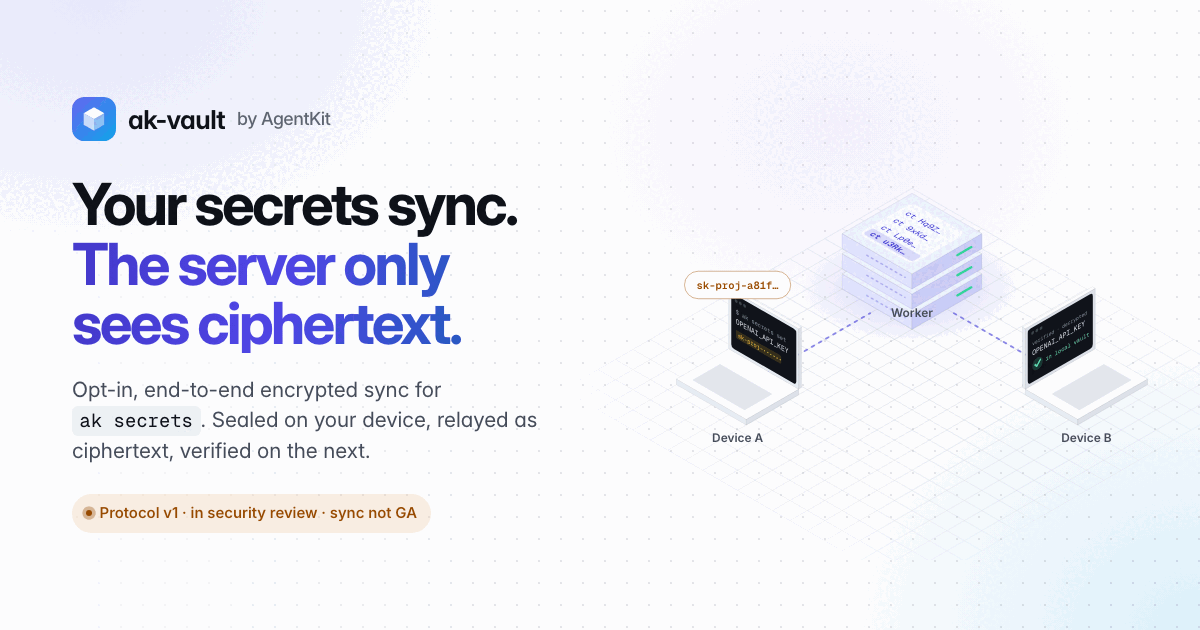
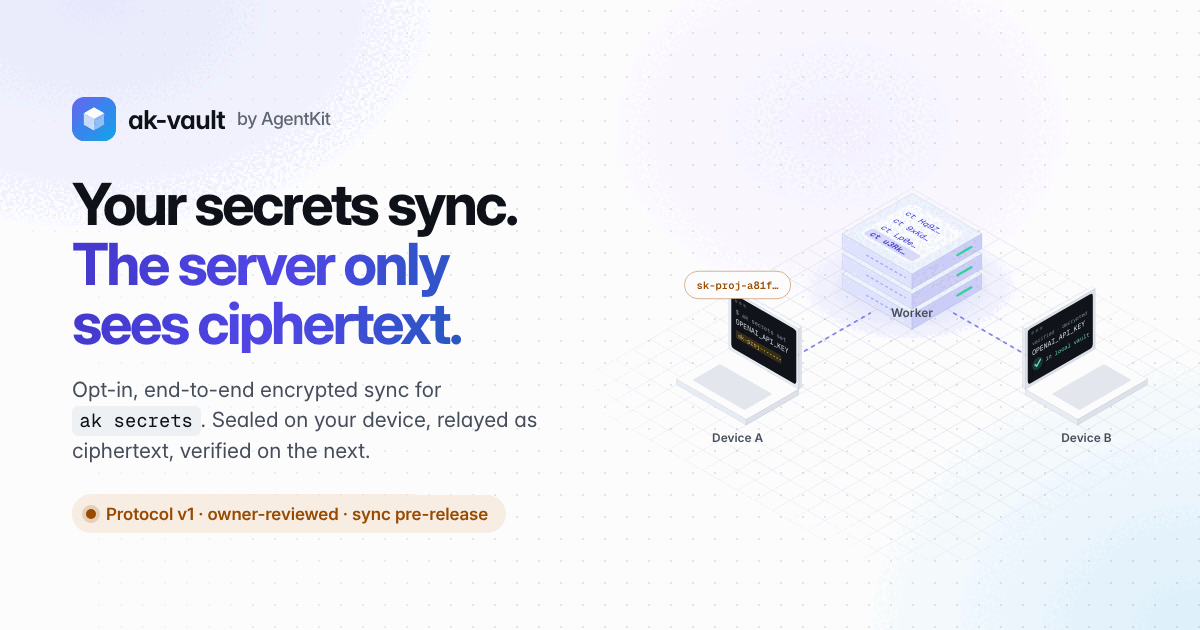
fix(site): match the og.png badge to the owner-review release gate
The social card still read "in security review · sync not GA" while the
page and og:image:alt say owner-reviewed, sync pre-release. Redraw the
badge to match and note in the design guidelines that the image has no
generator.

Claude-Session: https://claude.ai/code/session_01A1xMi99ZJRmsqJWh8civwd

Changed region(s): [[0.0617, 0.7841, 0.4317, 0.8444]]

diff --git a/docs/design-guidelines.md b/docs/design-guidelines.md
@@ -261,7 +261,9 @@ Animate only `transform` and `opacity`, apart from the SVG stroke-dash route flo
   static files under them.
 - **AX and SEO surfaces:**
   - canonical URL, plus OG and Twitter meta;
-  - `og.png`, 1200×630, rendered from the site's own CSS, fonts and static scene;
+  - `og.png`, 1200×630, rendered from the site's own CSS, fonts and static scene; there is no
+    generator in the repo, so when the hero badge text changes, redraw the badge in the image
+    to match;
   - `favicon.svg`, the gradient cube mark;
   - `apple-touch-icon.png`, 180px full-bleed;
   - `robots.txt`, `sitemap.xml`, `llms.txt` and the Markdown twins;
